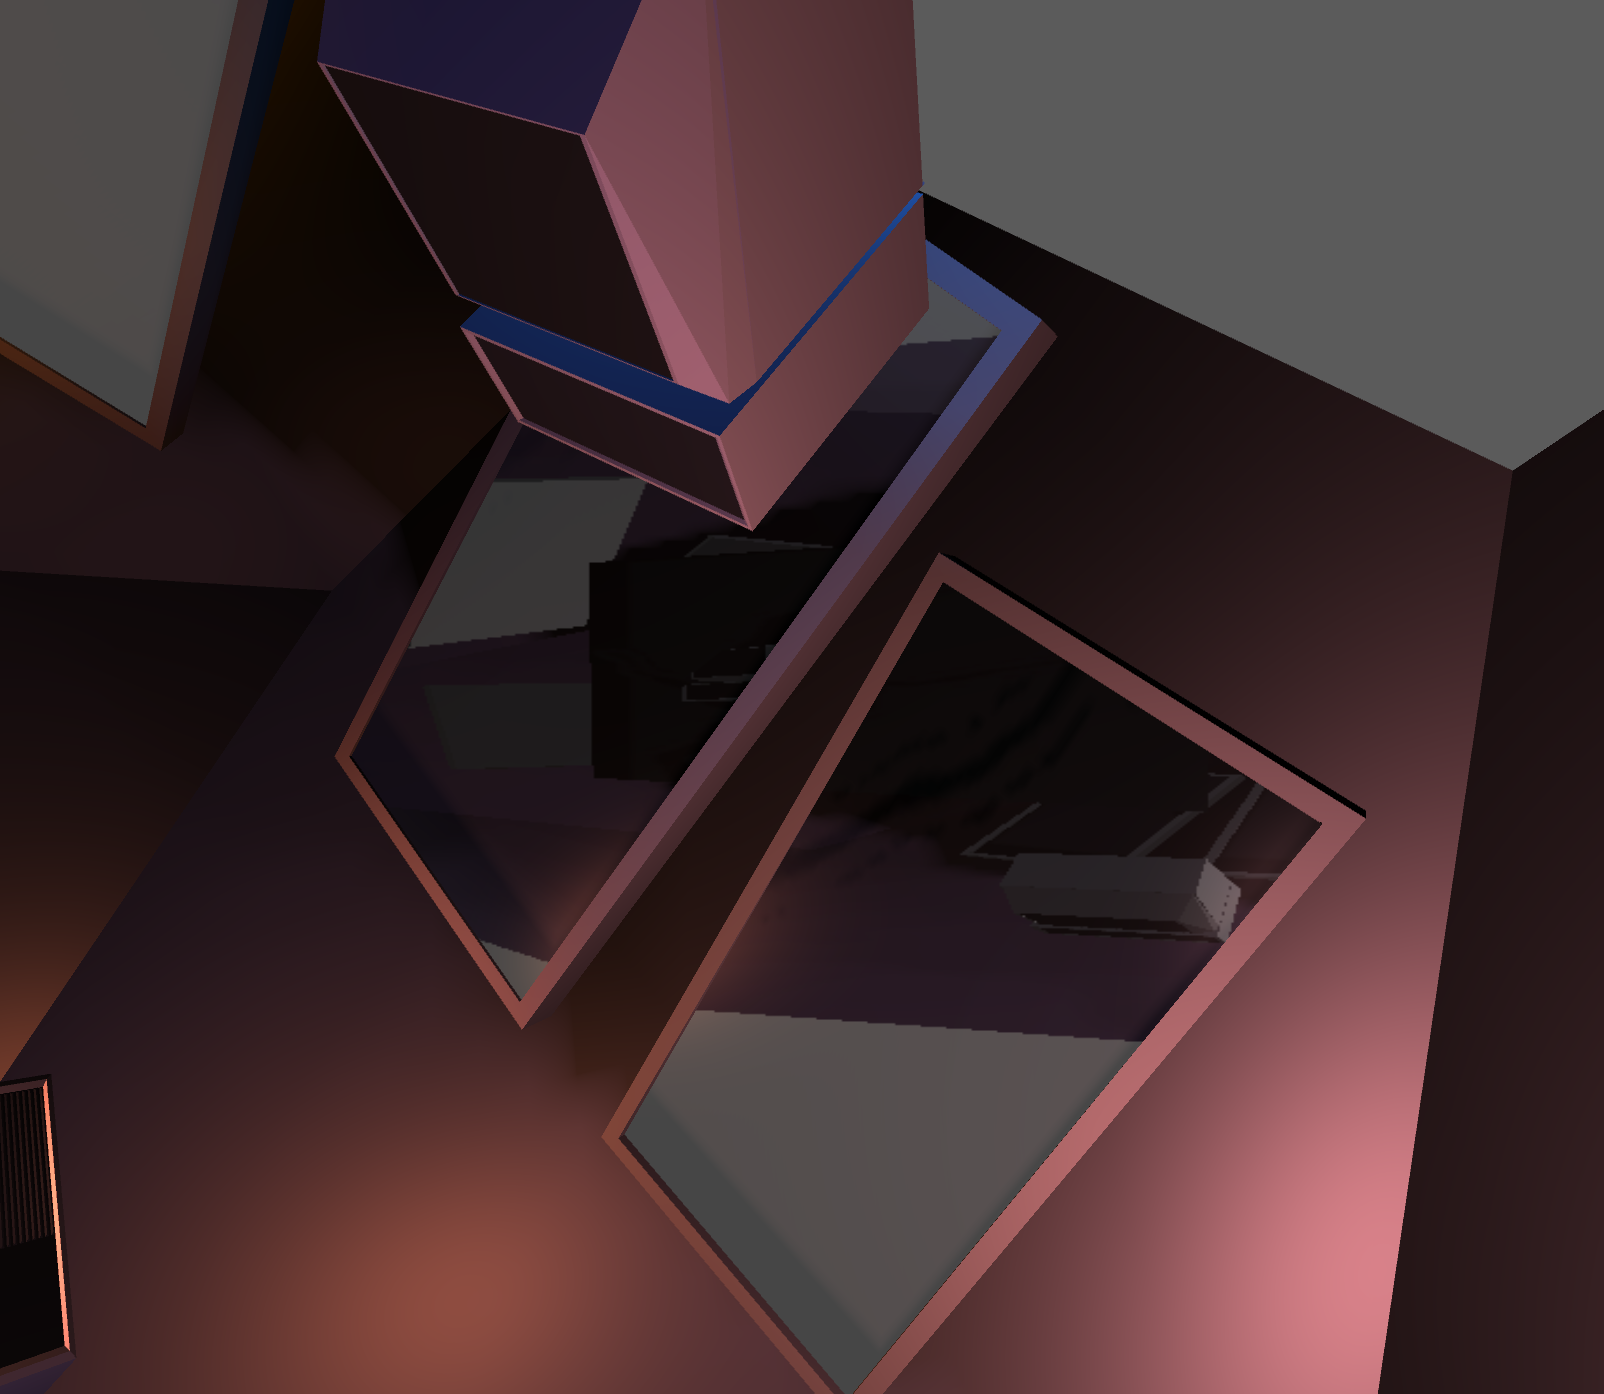
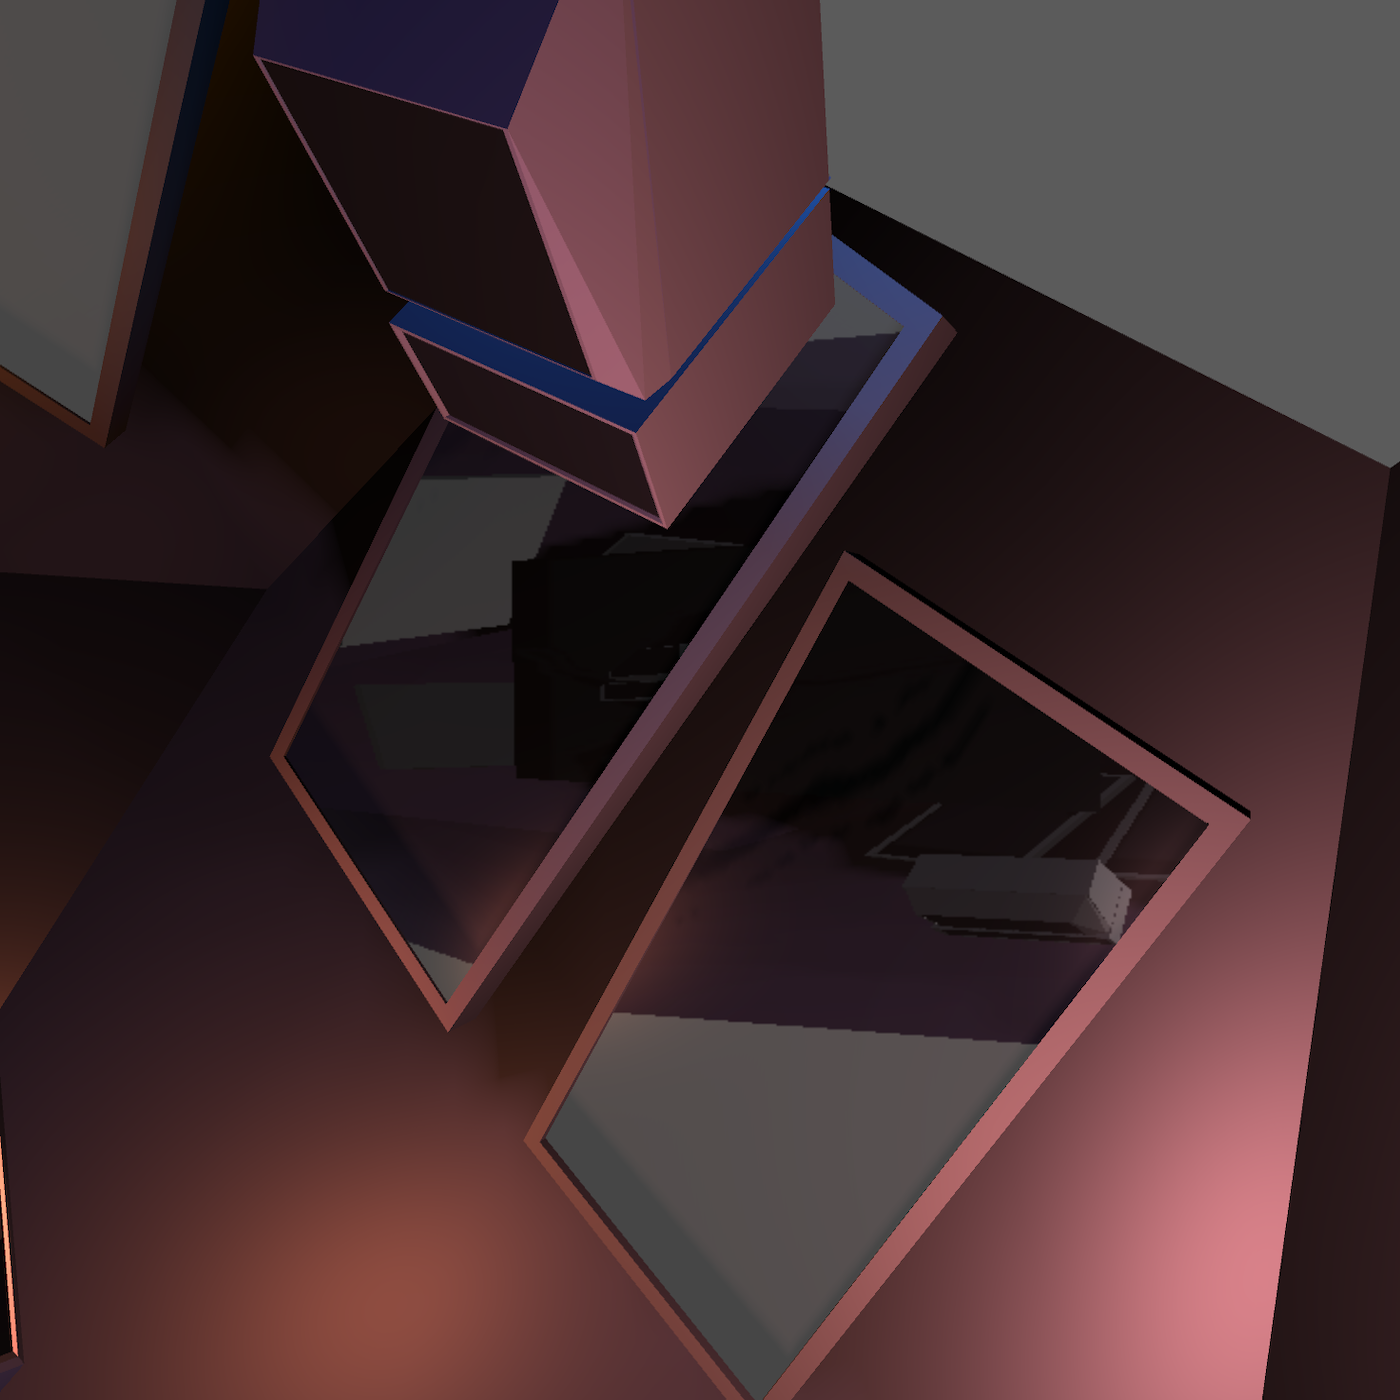
new sizes

diff --git a/interface.html b/interface.html
@@ -47,7 +47,7 @@
 
         <img src="/Blog/scrape4.png" alt="Current look" />
 
-        <img src="/Blog/scrape4.png" alt="More mood" />
+        <img src="/Blog/scrape2.png" alt="More mood" />
       </section>
       <script src="js/hover.js"></script>
     </div>
